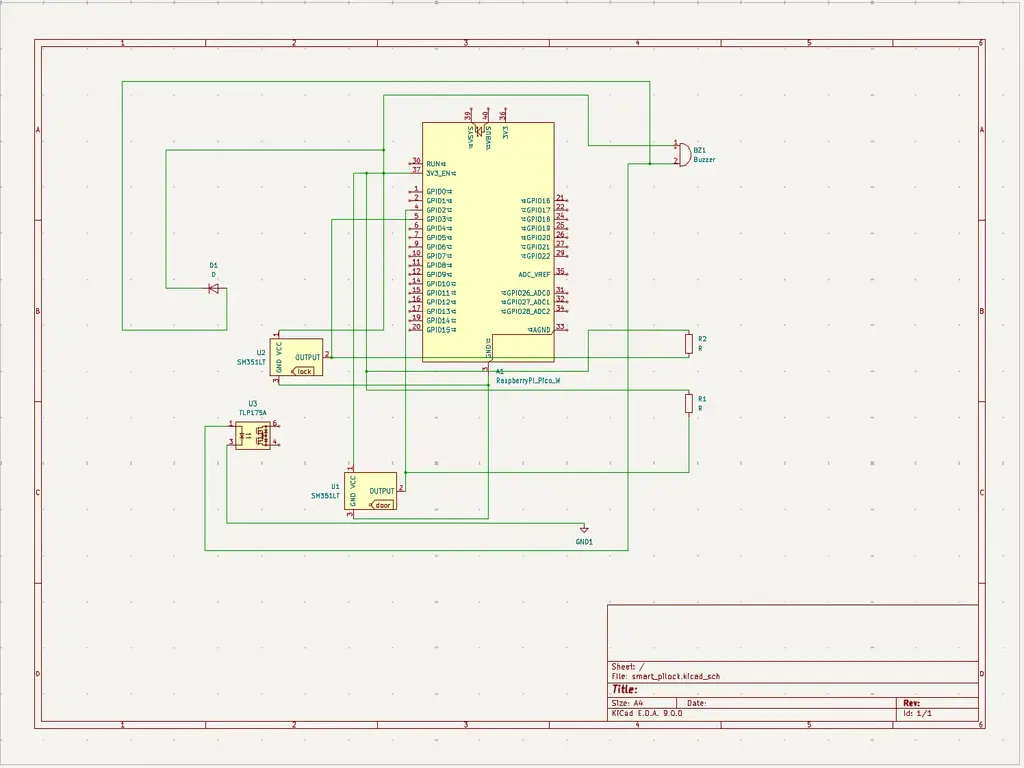
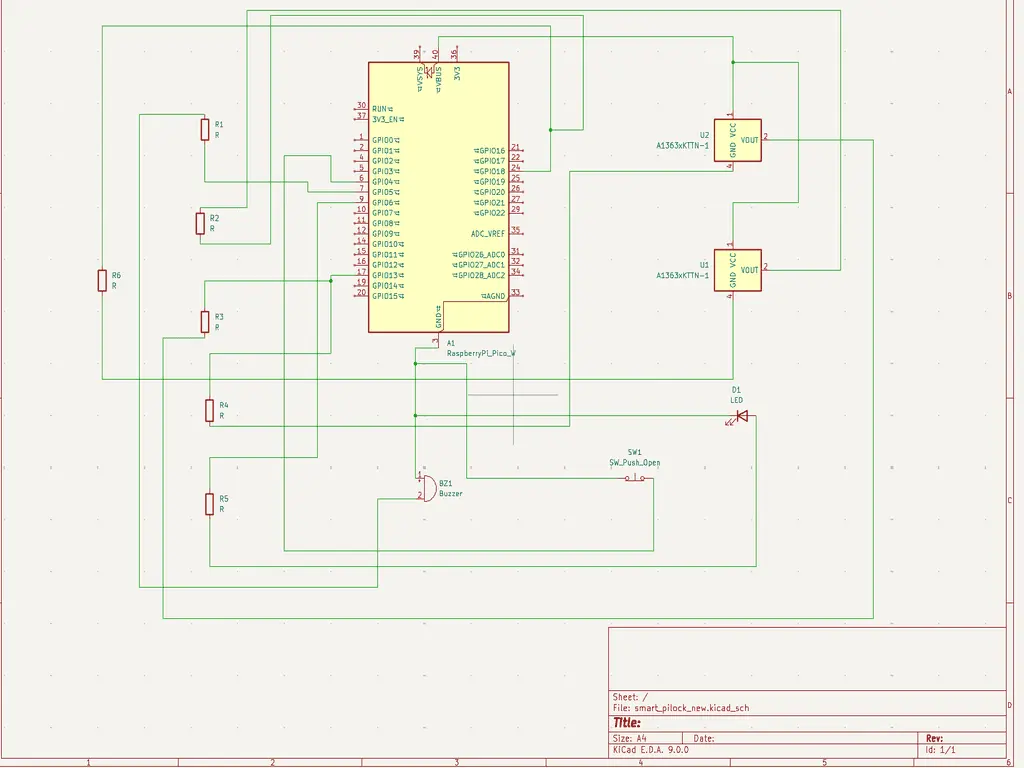
commit

diff --git a/website/versioned_docs/version-fils_en/project/2025/ana_teodora.carjila/index.md b/website/versioned_docs/version-fils_en/project/2025/ana_teodora.carjila/index.md
@@ -37,7 +37,8 @@ This is the diagram that illustrates the components and their connections.
 - Purchased the necessary components
 
 ### Week 12 - 18 May
-
+- Wired all the necessary components
+- KiCad scheme done accordingly with the connected components
 ### Week 19 - 25 May
 
 ## Hardware
@@ -47,6 +48,7 @@ The hardware setup consists of a Raspberry Pi Pico 2W microcontroller as the cor
 Two Hall effect sensors are connected to GPIO pins and are responsible for detecting the physical state of the door and whether it is locked. A red LED, connected to a digital output pin, serves as a visual indicator during a potential security breach. Additionally, an active buzzer is driven through a GPIO pin to emit an audible alert when forced entry is detected or the door is left unlocked.
 
 A MOSFET is used to safely drive the buzzer or LED from the Pico's GPIO, ensuring adequate power delivery. All components are connected via jumper wires on a breadboard, allowing flexible prototyping without the need for soldering. Since all sensors and components operate at 3.3V, they are powered directly from the Pico's onboard voltage regulator, eliminating the need for external regulators.
+![Hardware log](image2.webp)
 
 ### Schematics
 
